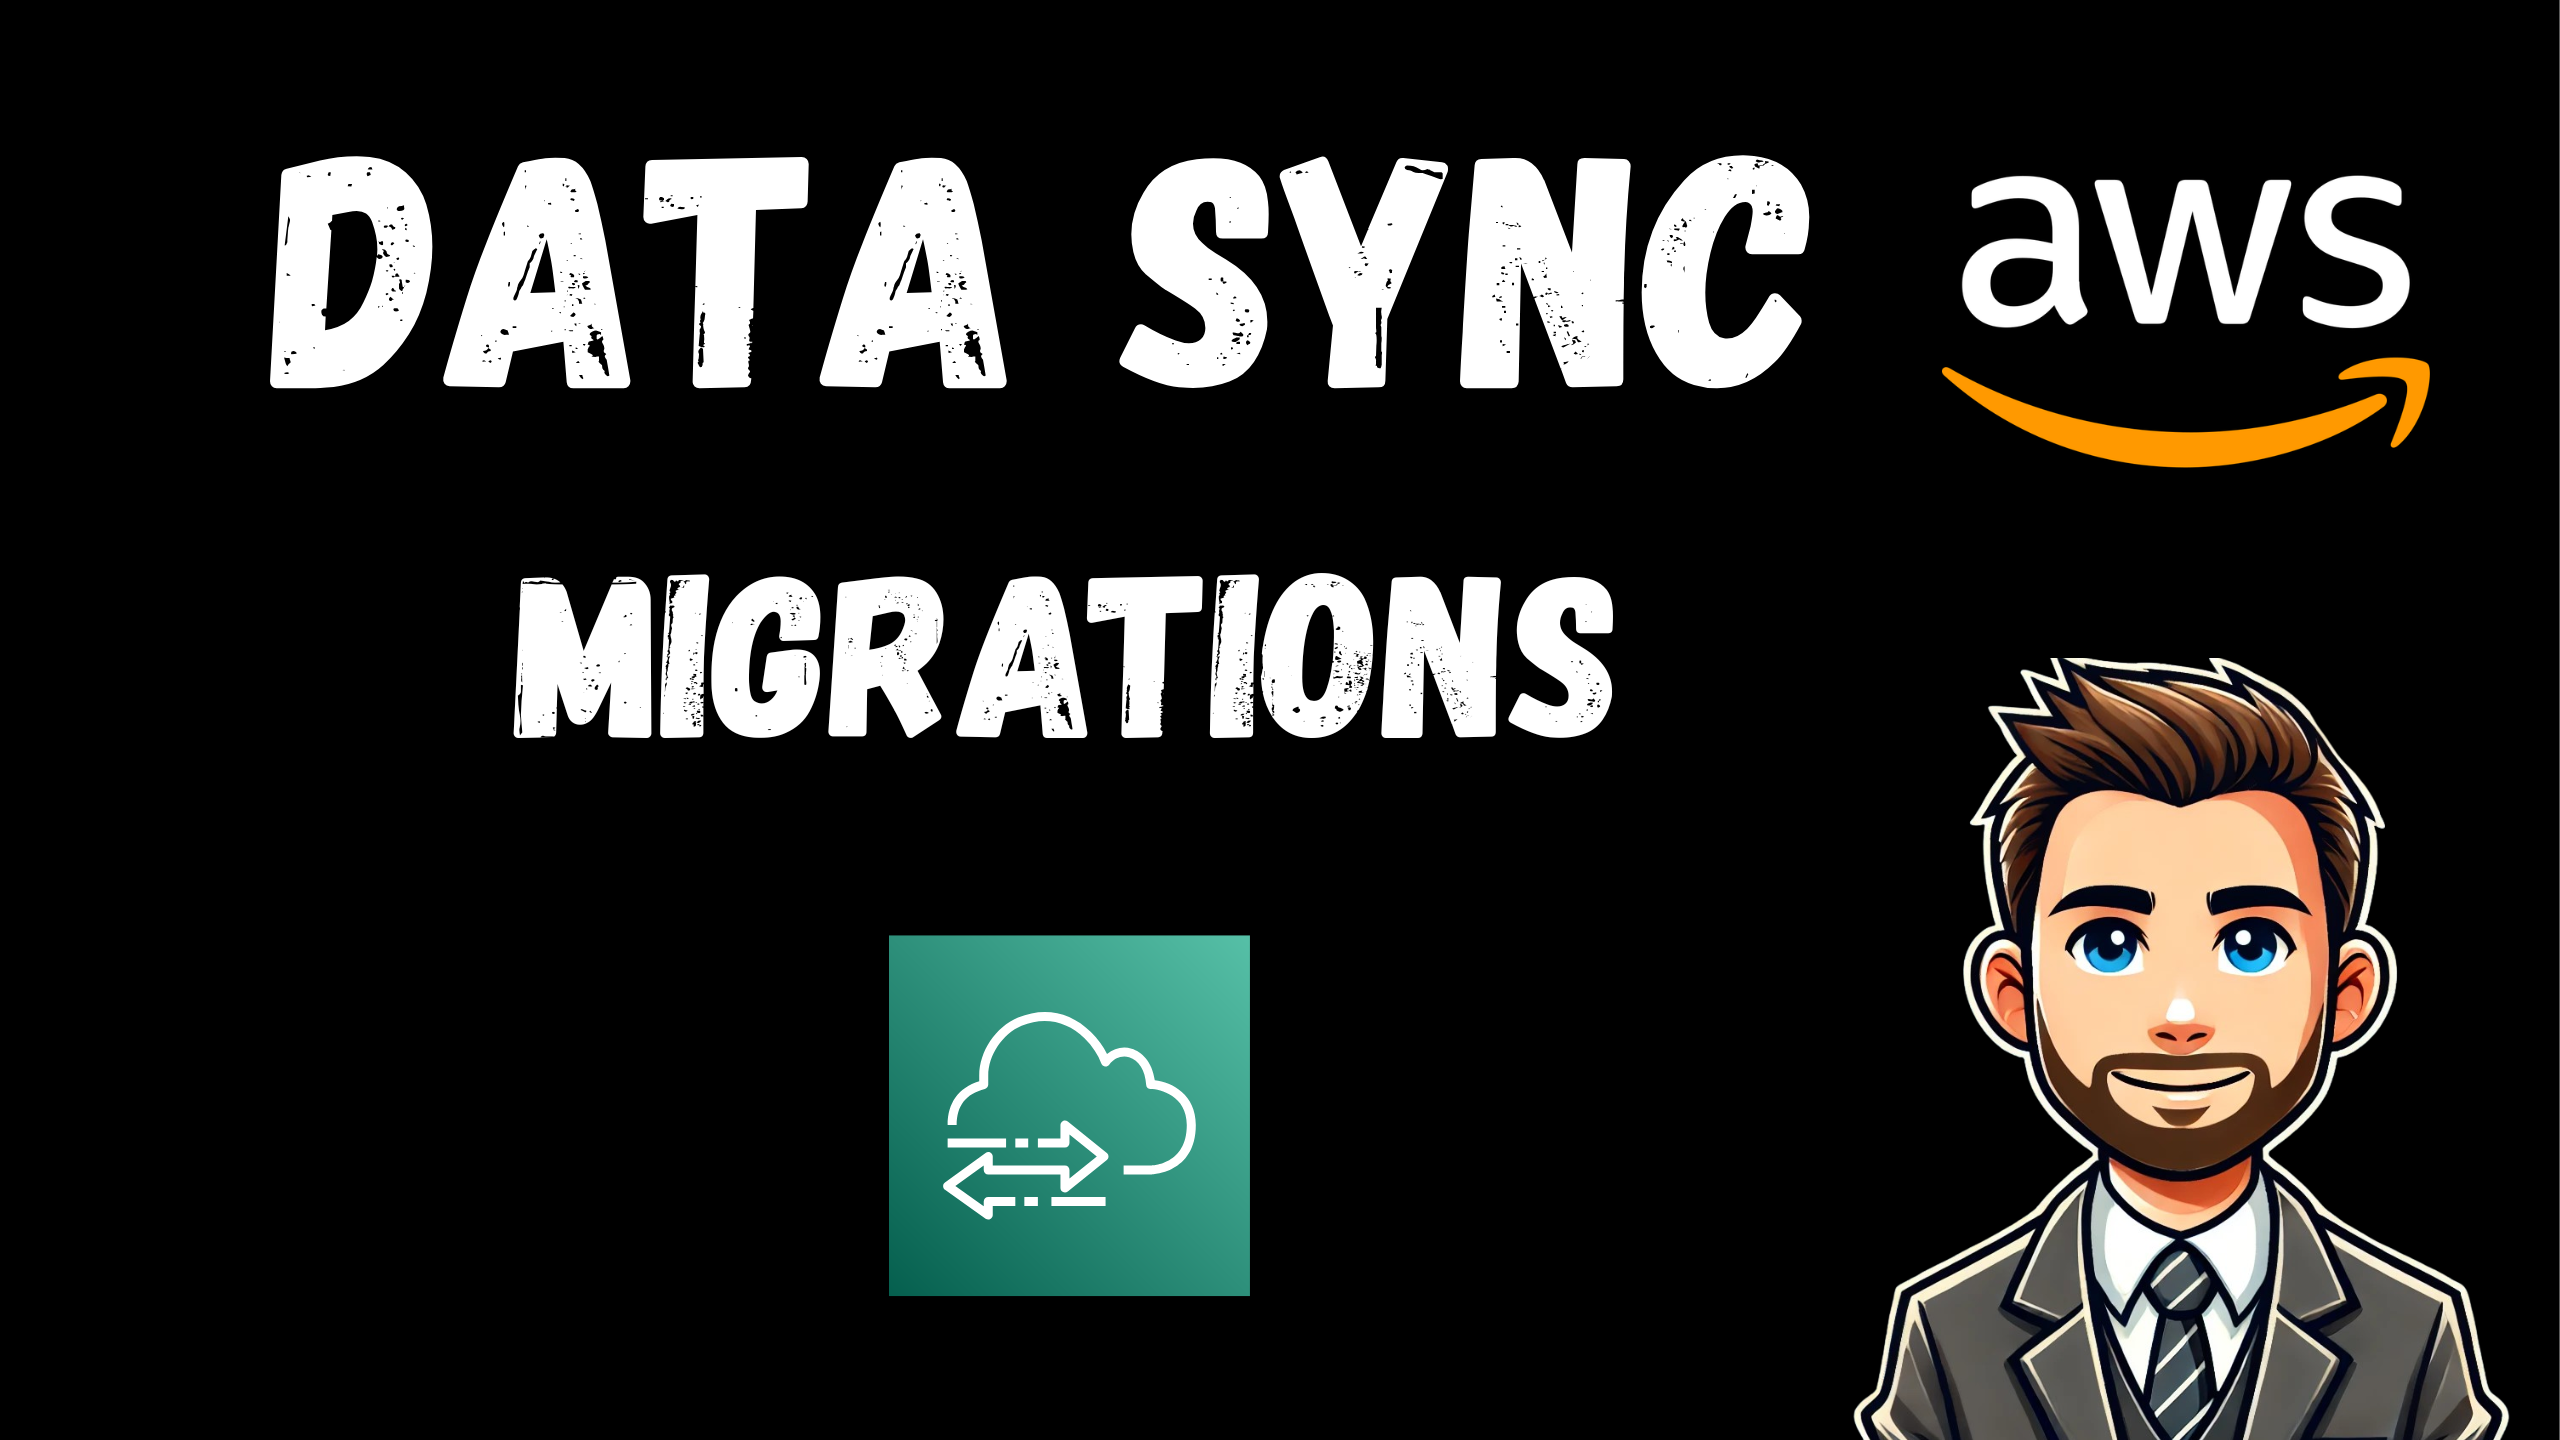
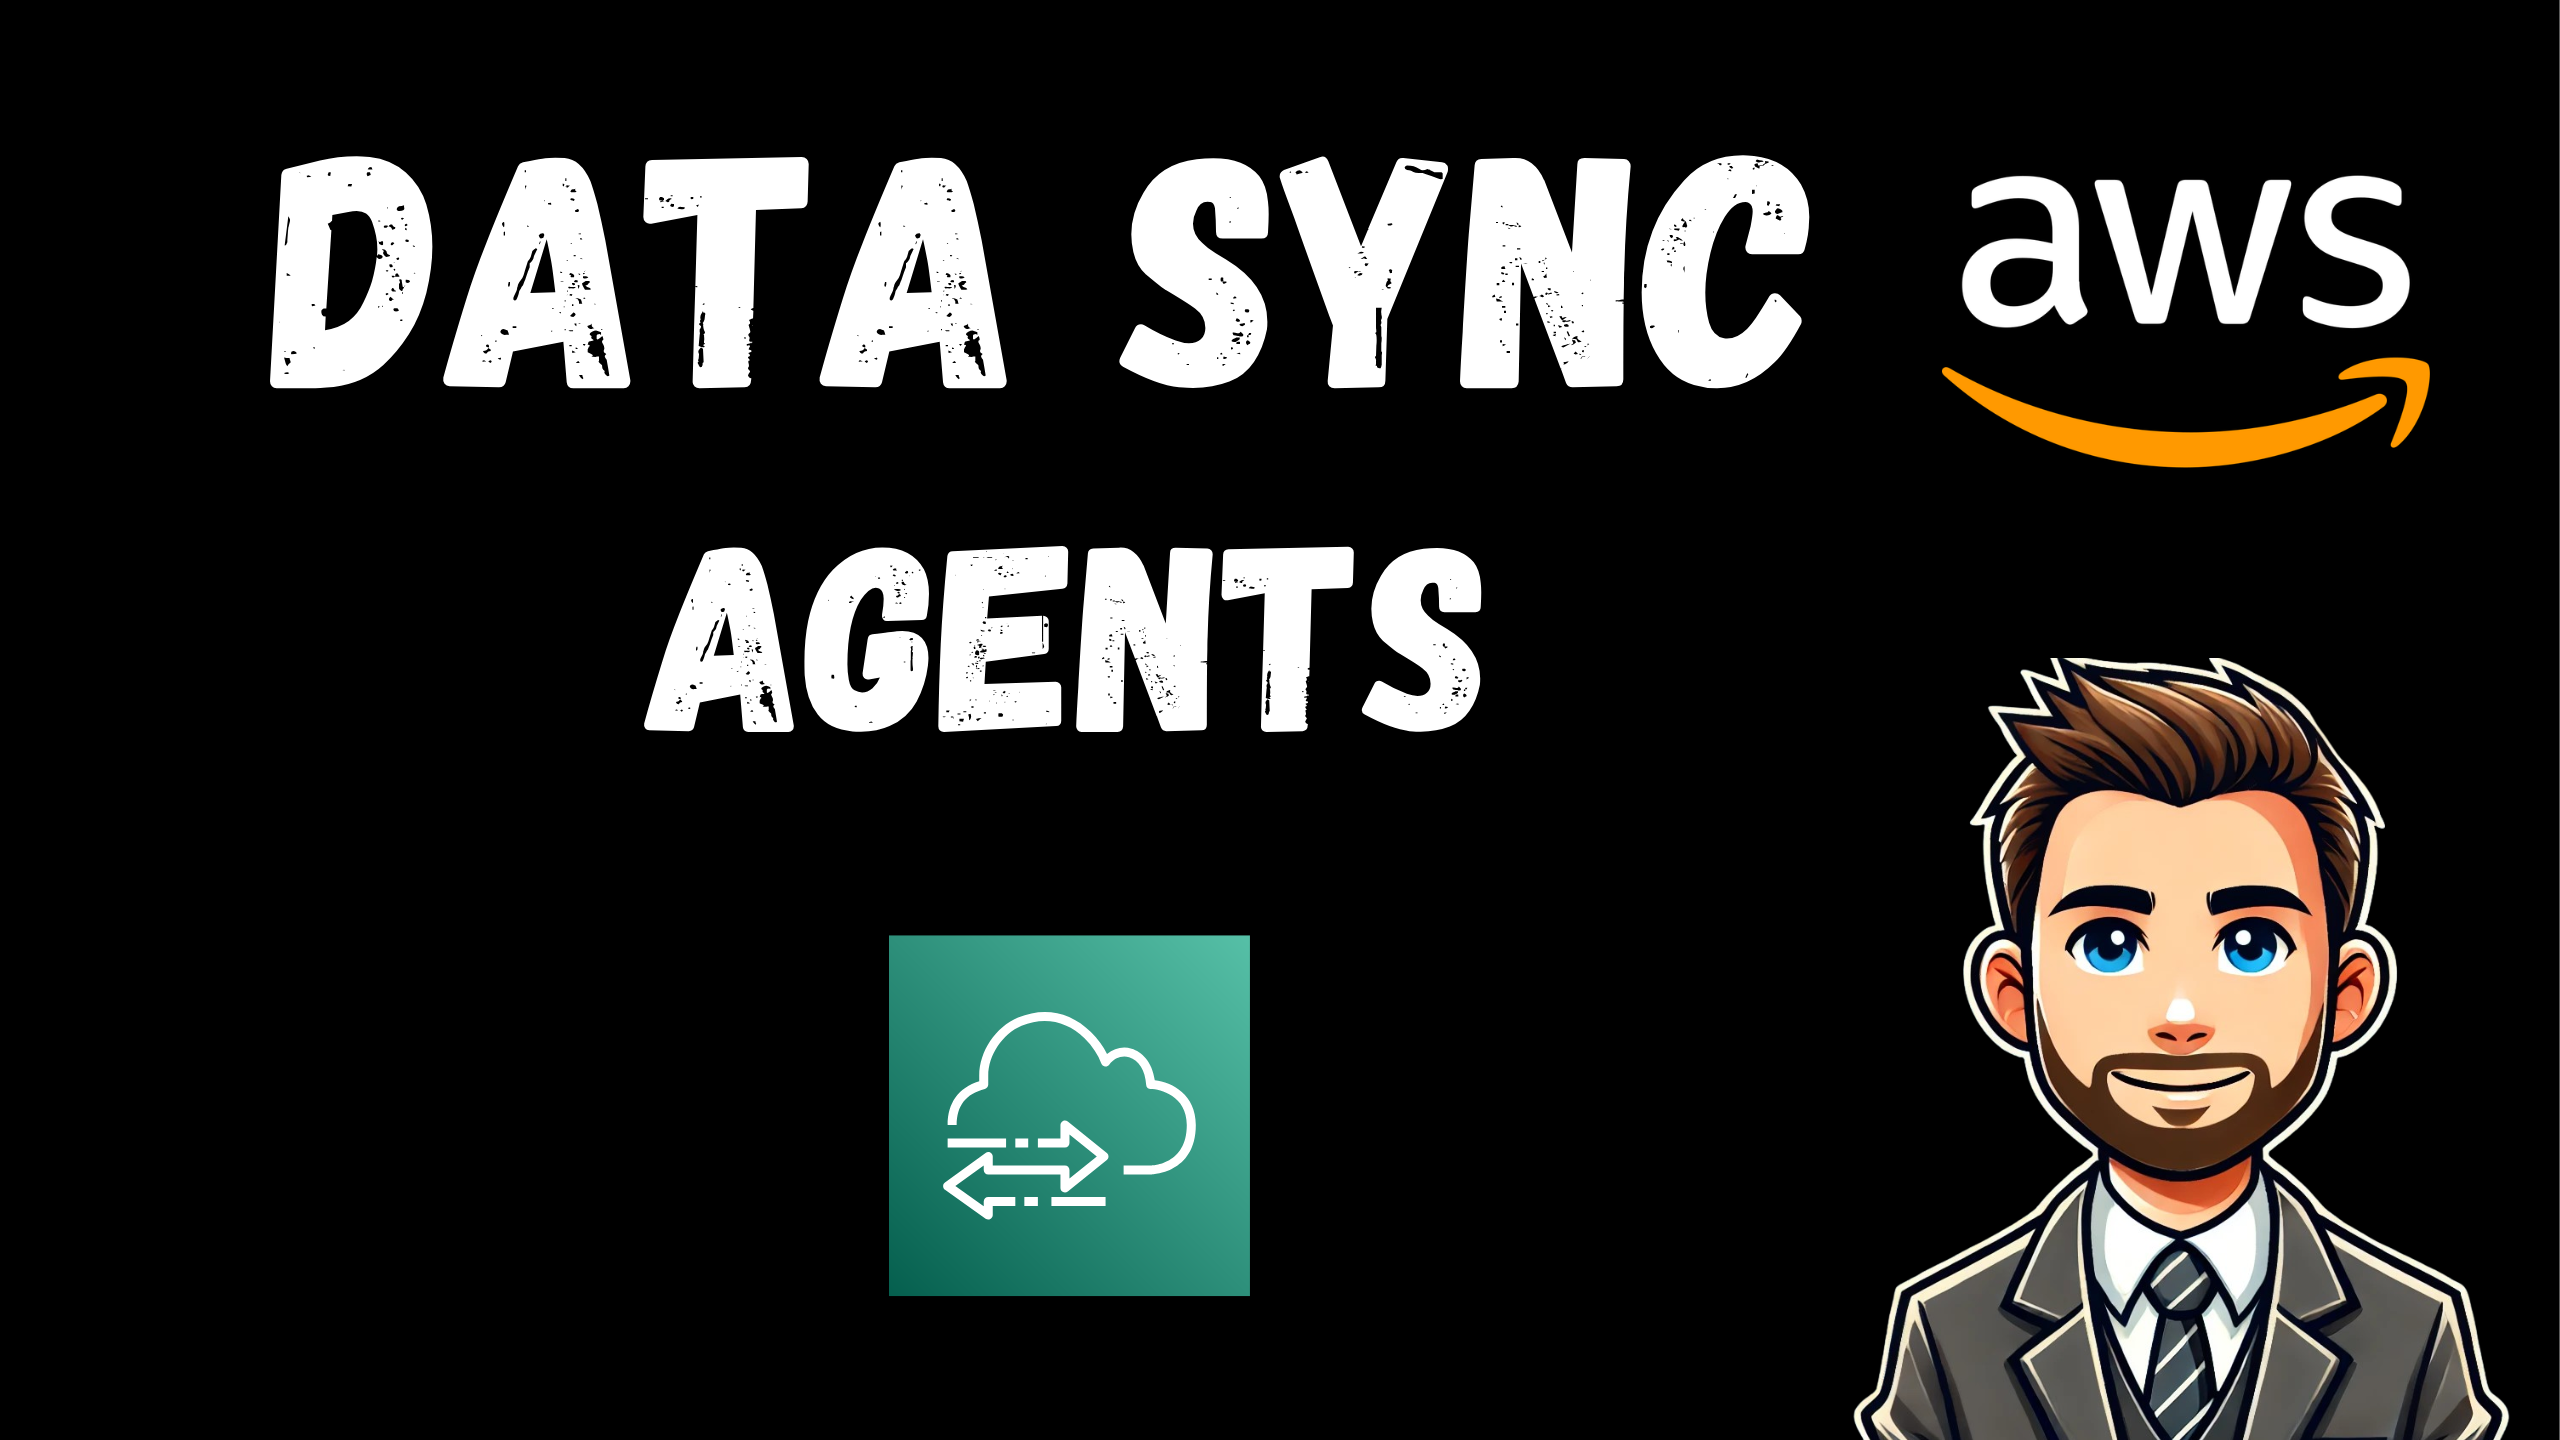
work on agent variant

Changed region(s): [[0.1875, 0.375, 0.6562, 0.5312]]

diff --git a/00-resources/VIDEO.md b/00-resources/VIDEO.md
@@ -1,44 +1,31 @@
 #AWS #DataSync #DataSyncAgent #SMB #S3 #Terraform #CloudMigration #ActiveDirectory #Samba
 
-*AWS DataSync Agent – SMB to S3 Data Migration with Terraform (Dual Agent)*
+Learn how to migrate SMB file shares to Amazon S3 using AWS DataSync agents. This project deploys a complete dual-agent DataSync architecture using Terraform.
 
-In this video, we extend our DataSync lab to demonstrate agent-based transfers — moving data from a Samba SMB share into S3 using two dedicated DataSync agent EC2 instances. Where the previous project showed how DataSync connects directly to EFS without an agent, this project covers the pattern you need when your source is SMB: a file share that DataSync cannot reach on its own.
+Unlike EFS transfers that can run agentless, SMB sources require a DataSync agent. In this lab we deploy two DataSync agent EC2 instances to run transfers concurrently and increase throughput.
 
-The infrastructure is deployed in four phases with Terraform: a Samba 4 mini Active Directory domain controller, an EFS-backed Linux gateway that exposes the data as a Samba SMB share, an S3 destination bucket with IAM and CloudWatch support, and two DataSync agent EC2 instances provisioned in the VPC. After Terraform apply, a single shell script activates both agents via their HTTP endpoints, creates four SMB source locations and four S3 destination locations, wires them into four DataSync tasks (two per agent), and stores all task ARNs in SSM for concurrent automated execution.
+The environment includes a Samba 4 mini-Active Directory domain, an EFS-backed Linux gateway exposing an SMB share, an S3 destination bucket, and two DataSync agents inside the VPC. After Terraform deployment, a shell script activates the agents, creates SMB and S3 locations, builds four DataSync tasks, and executes them in parallel.
 
-This project demonstrates the real-world agent-based DataSync pattern: when your source is SMB — on-premises, in a VPC, or anywhere reachable from an agent — you deploy a DataSync agent to bridge the gap. And when scale matters, you add more agents. Everything from agent activation to task creation, concurrent execution, and CloudWatch log collection is fully automated with shell scripts.
+WHAT YOU'LL LEARN
+• When AWS DataSync requires an agent vs agentless transfers
+• Deploying DataSync agents using the AWS-provided AMI
+• Activating agents automatically via HTTP activation keys
+• Running concurrent transfers across multiple agents
+• Creating SMB source locations scoped to subdirectories
+• Handling Active Directory authentication for SMB access
+• Monitoring DataSync tasks and reviewing CloudWatch logs
 
-What You'll Learn
-- Understand when a DataSync agent is required versus agentless EFS-to-S3 transfers
-- Provision DataSync agent EC2 instances using the AWS-provided AMI via SSM parameter
-- Activate multiple DataSync agents by polling their HTTP endpoints for one-time activation keys
-- Split transfers across multiple agents to run tasks concurrently and increase throughput
-- Create SMB source locations scoped to specific subdirectories to avoid inaccessible paths
-- Understand why a POSIX-mapped AD user (with uidNumber set) is required for SMB agent authentication
-- Diagnose and fix winbind machine account trust failures that block NTLMv2 authentication
-- Use net ads join alongside realm join to ensure winbind's trust is initialized correctly
-- Store DataSync task ARNs in SSM Parameter Store for decoupled script-based execution
-- Poll four concurrent DataSync task executions until all reach SUCCESS or any hits ERROR
-- Download per-task CloudWatch logs for post-run inspection and audit
-- Tear down CLI-created DataSync resources (tasks, locations, agents) before Terraform destroy
-
-Resources Deployed
-- VPC 10.0.0.0/24 with public and private subnets, NAT Gateway (us-east-1)
-- Ubuntu EC2 instance running Samba 4 as a Domain Controller and DNS server
-- Amazon EFS file system (mcloud-efs) with mount targets in two subnets
-- Domain-joined Ubuntu EC2 instance (efs-client-gateway) mounting EFS and exposing it as a Samba SMB share
-- Windows Server EC2 instance joined to the domain, accessible via RDP
-- Two DataSync agent EC2 instances (t3.large each) using the AWS-provided DataSync agent AMI
-- Shared security group allowing inbound HTTP/80 on each agent for one-time activation
-- S3 bucket with server-side encryption, versioning, and public access blocked
-- IAM role trusted by datasync.amazonaws.com with scoped S3 read/write permissions
-- CloudWatch log group (/datasync/smb-to-s3) with resource policy for DataSync log writes
-- Four SMB source locations, each pointing at a project subdirectory on efs-client-gateway (created by CLI)
-- Four S3 destination locations, each under a per-project prefix in the bucket (created by CLI)
-- Four DataSync tasks (sync-aws-efs, sync-aws-mgn-example, sync-aws-workspaces, sync-aws-mysql) with TRANSFER-level CloudWatch logging (created by CLI)
-- SSM Parameter Store sentinels for EFS population gating and four SMB task ARN entries
-- AWS Secrets Manager secrets for Active Directory user credentials
-
+INFRASTRUCTURE DEPLOYED
+• VPC with public and private subnets (us-east-1)
+• Samba 4 mini Active Directory domain controller
+• Amazon EFS file system with Linux SMB gateway
+• Windows Server domain management host
+• Two AWS DataSync agent EC2 instances
+• Amazon S3 destination bucket with encryption and versioning
+• IAM role allowing DataSync access to S3
+• CloudWatch log group for DataSync transfer logs
+• Four SMB source locations and four S3 destinations
+• Four concurrent DataSync tasks
 
 GitHub
 https://github.com/mamonaco1973/aws-data-sync-agent
@@ -46,11 +33,9 @@ https://github.com/mamonaco1973/aws-data-sync-agent
 README
 https://github.com/mamonaco1973/aws-data-sync-agent/blob/main/README.md
 
-Timestamps
-
+TIMESTAMPS
 00:00 Introduction
-00:30 Architecture
-01:20 Build the Code
-01:50 Build Results
-02:45 DataSync Flow
-03:30 Demo
+00:28 Architecture
+01:12 Build the Code
+01:28 Build Results
+02:19 Demo
